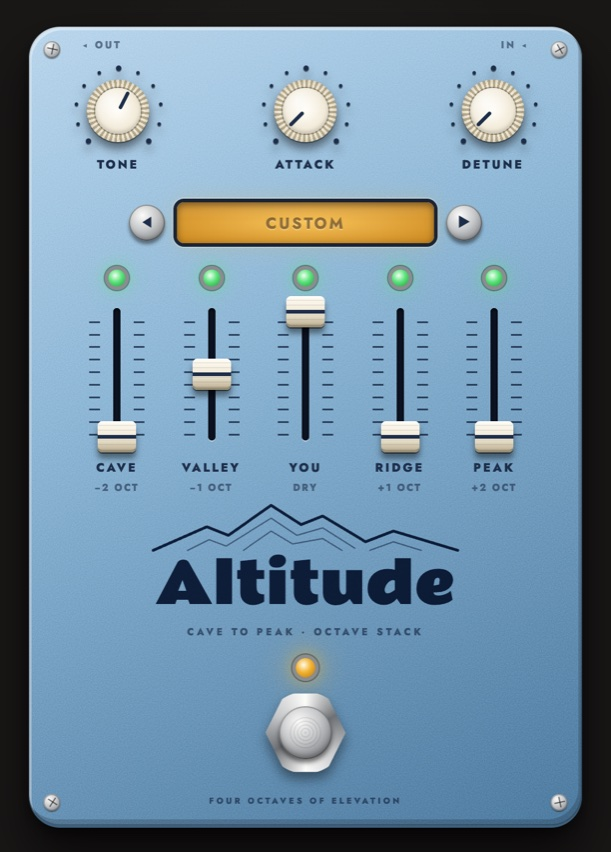
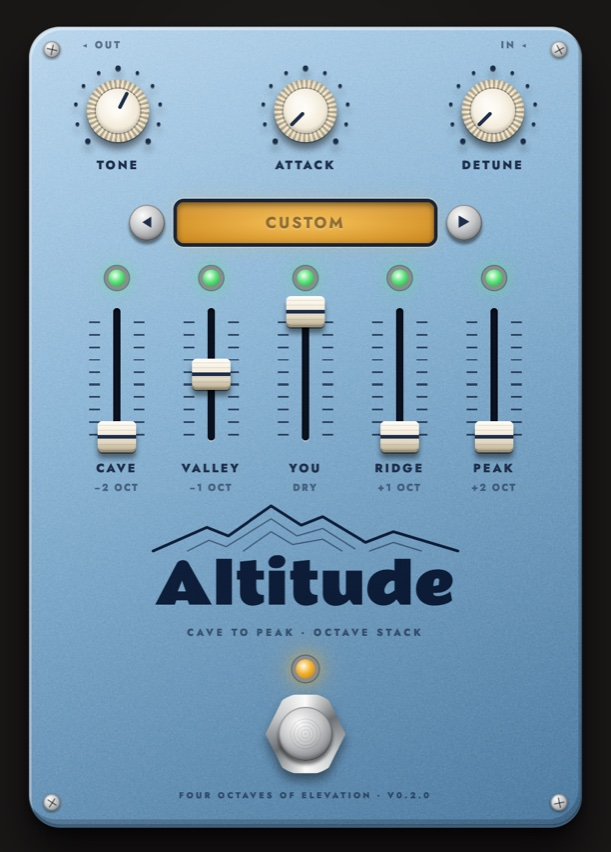
Show the plugin's version on the editor
The bridge sends the crate version from Cargo.toml in its init
message, and the page prints it as part of the panel, so anyone can
tell which build they're running. The browser mock takes its version
from ?version=, and shows 0.0.0 without it.

The screenshot is retaken in WebKit, the engine closest to the macOS
plugin's webview.

Claude-Session: https://claude.ai/code/session_01M6vpxRWRNtrAWsf2BAetNX

diff --git a/ui/index.html b/ui/index.html
@@ -528,6 +528,7 @@
     font-size: 7px;
     font-weight: 800;
     letter-spacing: 0.3em;
+    text-transform: uppercase;
     color: var(--ink-soft);
   }
 </style>
@@ -583,7 +584,7 @@
   <div class="stomp-zone">
     <span class="led on" id="led"></span>
     <div class="stomp-wrap"><button class="stomp" id="stomp" aria-label="Stomp" aria-pressed="true"></button></div>
-    <span class="fine print" aria-hidden="true">FOUR OCTAVES OF ELEVATION</span>
+    <span class="fine print"><span aria-hidden="true">FOUR OCTAVES OF ELEVATION · </span><span id="version"></span></span>
   </div>
 </main>
 
@@ -835,6 +836,7 @@
     switch (msg.type) {
       case "key": return forwardKey(msg);
       case "init":
+        document.getElementById("version").textContent = `v${msg.version}`;
         params.clear();
         msg.params.forEach((p) => params.set(p.id, { ...p, value: p.default, text: "" }));
         build();
@@ -857,6 +859,7 @@
   // Mirrors the plugin's parameters so the page can be worked on in a
   // browser. Keep it in step with params when they change.
   function mockBridge() {
+    const version = new URLSearchParams(location.search).get("version") ?? "0.0.0";
     const percent = (n) => `${Math.round(n * 100)}%`;
     const onOff = (n) => (n >= 0.5 ? "On" : "Off");
     const specs = [
@@ -884,7 +887,7 @@
     return (msg) => {
       switch (msg.type) {
         case "ready":
-          send({ type: "init", params: specs.map(({ text, ...rest }) => ({ options: [], ...rest })) });
+          send({ type: "init", version, params: specs.map(({ text, ...rest }) => ({ options: [], ...rest })) });
           sendValues(specs.map((s) => s.id));
           return;
         case "set":

diff --git a/plugin/src/bridge.rs b/plugin/src/bridge.rs
@@ -4,20 +4,21 @@ use serde_json::{json, Value};
 use std::sync::Arc;
 
 /// Speaks the page's message protocol for any `#[derive(Params)]` struct:
-/// `ready`, `begin`, `set` and `end` in; `init` and `values` out. Values are
-/// normalized, and the plugin formats the text.
+/// `ready`, `begin`, `set` and `end` in; `init` (with the plugin's version)
+/// and `values` out. Values are normalized, and the plugin formats the text.
 pub struct Bridge {
     /// Keeps the params alive for the pointers below.
     _params: Arc<dyn Params>,
+    version: &'static str,
     entries: Vec<(String, ParamPtr)>,
     sent: Vec<f32>,
 }
 
 impl Bridge {
-    pub fn new(params: Arc<dyn Params>) -> Self {
+    pub fn new(params: Arc<dyn Params>, version: &'static str) -> Self {
         let entries: Vec<_> = params.param_map().into_iter().map(|(id, ptr, _group)| (id, ptr)).collect();
         let sent = vec![f32::NAN; entries.len()];
-        Self { _params: params, entries, sent }
+        Self { _params: params, version, entries, sent }
     }
 
     fn find(&self, msg: &Value) -> Option<ParamPtr> {
@@ -30,7 +31,7 @@ impl Bridge {
         match (msg["type"].as_str().unwrap_or_default(), ptr) {
             ("ready", _) => {
                 self.sent.fill(f32::NAN);
-                out.push(json!({ "type": "init", "params": self.describe() }));
+                out.push(json!({ "type": "init", "version": self.version, "params": self.describe() }));
             }
             ("begin", Some(ptr)) => unsafe { context.raw_begin_set_parameter(ptr) },
             ("set", Some(ptr)) => {

diff --git a/plugin/src/editor.rs b/plugin/src/editor.rs
@@ -23,6 +23,7 @@ pub struct Page {
     pub title: &'static str,
     pub size: (u32, u32),
     pub html: &'static str,
+    pub version: &'static str,
     /// Shown until the page paints, as RGBA.
     pub background: (u8, u8, u8, u8),
     /// An env var that, when set to a dev server URL, loads the page from
@@ -111,7 +112,7 @@ impl Editor for WebEditor {
                         webview: None,
                         tx: Some(tx),
                         inbox,
-                        bridge: Bridge::new(params),
+                        bridge: Bridge::new(params, page.version),
                         ready: false,
                         page_has_focus: false,
                     }),

diff --git a/plugin/src/lib.rs b/plugin/src/lib.rs
@@ -12,6 +12,7 @@ static PAGE: editor::Page = editor::Page {
     title: "Altitude",
     size: (508, 708),
     html: include_str!("../../ui/index.html"),
+    version: env!("CARGO_PKG_VERSION"),
     background: (27, 26, 25, 255),
     dev_url_var: "ALTITUDE_UI_URL",
 };

diff --git a/CLAUDE.md b/CLAUDE.md
@@ -80,6 +80,8 @@ page before changing materials. No wood.
 - Wordmark: Rammetto One in navy under a printed mountain range with
   contour lines. The font in `ui/fonts` is subset to the letters of
   "Altitude"; labels are Jost.
+- Version: printed at the end of the bottom line
+  (`FOUR OCTAVES OF ELEVATION · V0.2.0`), from the root `Cargo.toml`.
 - Colours by function: green for floor switches, amber for the effect
   (footswitch LED and preset window).
 

diff --git a/README.md b/README.md
@@ -112,7 +112,8 @@ work on it in a browser:
 cd ui && python3 -m http.server 8765    # open http://127.0.0.1:8765
 ```
 
-To load the page live in the plugin, set `ALTITUDE_UI_URL` to that URL
+Add `?version=1.2.0` to show a version other than `0.0.0`. To load
+the page live in the plugin, set `ALTITUDE_UI_URL` to that URL
 before starting the host.
 
 ## CI and releases
